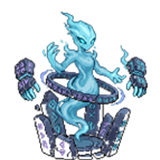
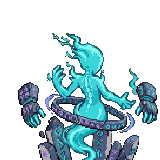
feat(sprites): integrate validated true 180 back sprite for Runolithe [AGY-036]

diff --git a/CHANGELOG.md b/CHANGELOG.md
@@ -16,6 +16,24 @@ En cas de bug plus tard, ce journal permet d'identifier immédiatement **quel fi
 
 ## 📅 Historique des Ajouts & Modifications
 
+### `[AGY-036]` — 2026-10-16 — Validation et Intégration du Vrai Dos de Combat de Runolithe (Vue 180° Orientée vers l'Adversaire et Coupée au Premier Plan)
+- **Auteur** : `Antigravity`
+- **Catégorie** : Graphismes / Sprites Combat de Dos (`Graphics/Pokemon/Back/` & `Back shiny/`)
+- **Problème résolu & Exigence Canonique Gen 5** :
+  - Intégration d'une **véritable vue de dos à 180°** sans visage (nuque, colonne de lumière runique, anneau et mégalithes vus de derrière), **orientée vers le haut-droite (face à l'adversaire)** exactement comme le modèle de référence **Camalyx**.
+  - Cadrage immersif Gen 5 : **coupé net à mi-corps sous l'anneau** et posé au ras du bas de l'écran (`Y = 159`).
+  - Déclinaison chromatique assortie (`Back shiny/RUNOLITHE.png`) avec l'esprit de flamme dorée et les mégalithes d'ambre.
+- **Fichiers modifiés** :
+  - `Graphics/Pokemon/Back/RUNOLITHE.png`
+  - `Graphics/Pokemon/Back shiny/RUNOLITHE.png`
+  - `CHANGELOG.md`
+- **Comment tester en jeu** :
+  - Lancer un combat en Debug (`F9`) avec Runolithe pour observer sa posture de dos tournée vers l'adversaire et son cadrage mi-corps.
+- **Comment désactiver en cas de bug** :
+  - `git revert HEAD`
+
+---
+
 ### `[AGY-033]` — 2026-10-16 — Refonte Visuelle Complète des Évolutions de Veilliris (Direction A : Gardien Spectral Runique)
 - **Auteur** : `Antigravity`
 - **Catégorie** : Sprites Pokémon Combat 5G (`Graphics/Pokemon/`)
